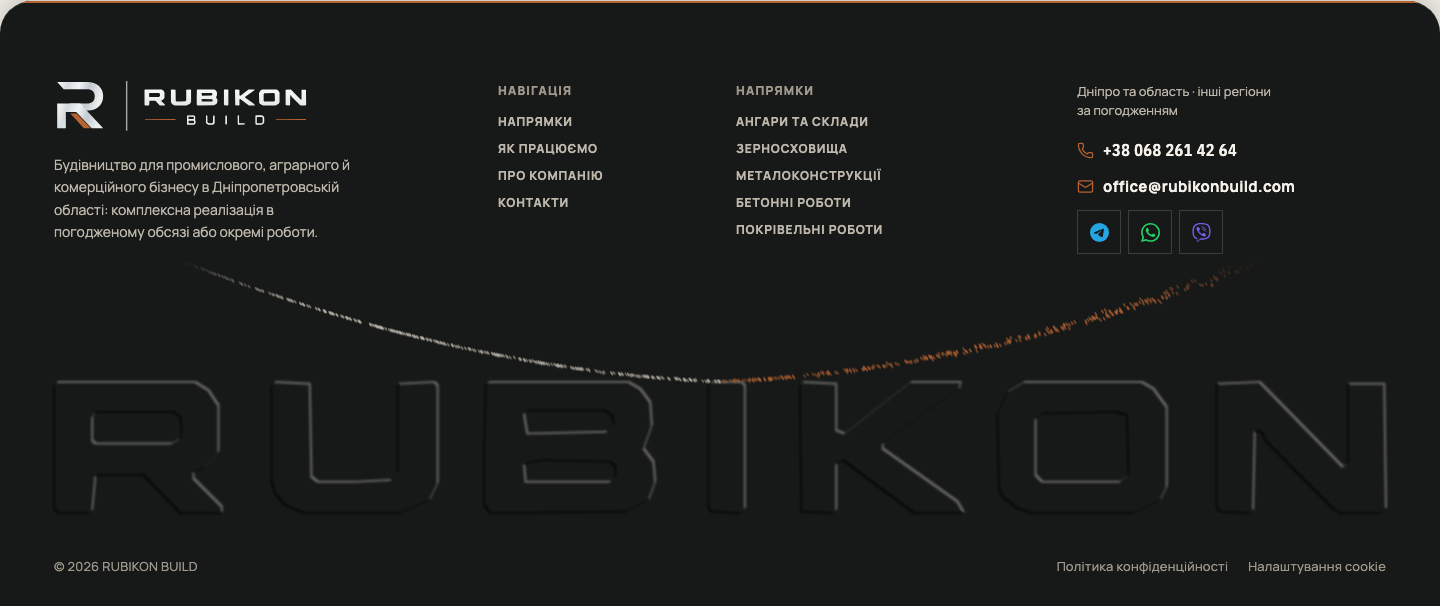
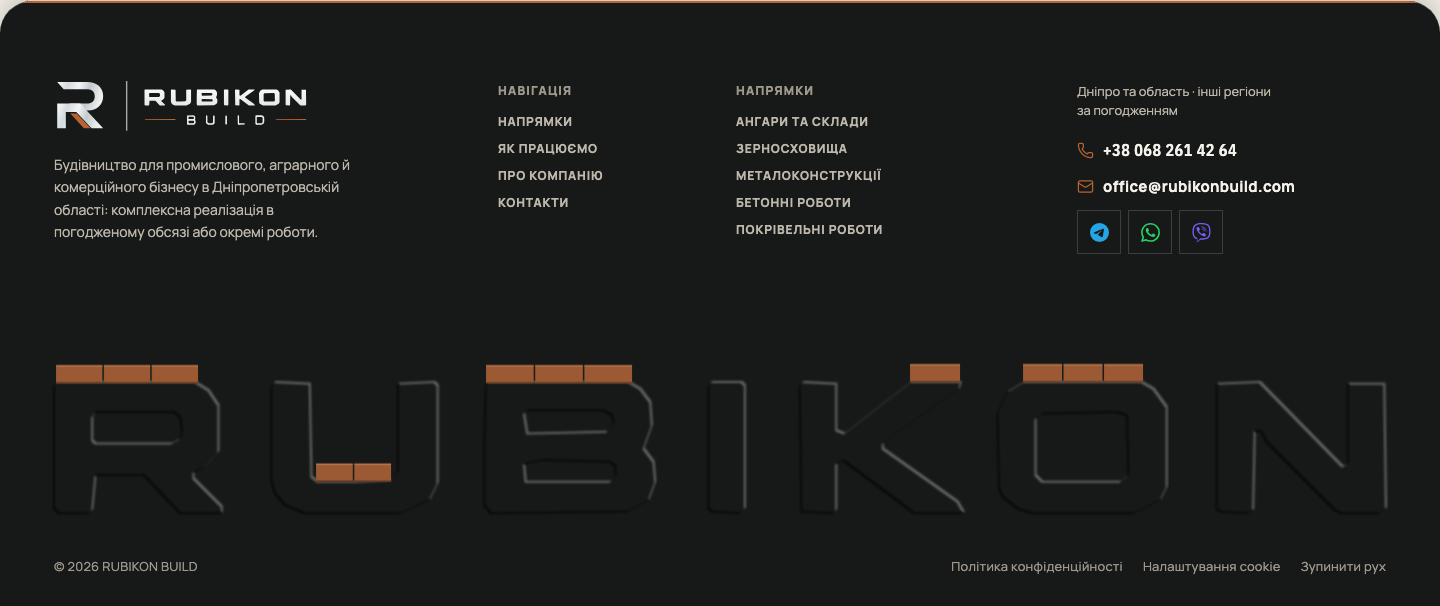
design(footer): «Про компанію» — кладка двох поколінь замість потоків (власник 09.11)
З трьох змакетованих сцен (рівень, кладка, печатка) власник обрав кладку: два ряди
блоків по верху літер — нижній мідний, верхній світлий з перев'язкою, «Два покоління —
одна відповідальність». Та сама сцена в циклі головної. Потоки прибрано.
unit: кладка лягає лише на рівні ділянки верху літер; знімок підвалу /pro-nas.

diff --git a/app/components/footerScenes.ts b/app/components/footerScenes.ts
@@ -3,7 +3,7 @@ import { LETTER_O } from './footerSignatureLetters';
 // The page's own scene on the footer's embossed RUBIKON (owner 08–09.11): on every page that has a live scene of its own,
 // the same subject plays on the word, continuously while the footer is on the screen — rain beating on the letters' tops,
 // a weld run along them, concrete poured into them, grain heaped on them, a beam lowered onto them, a portal frame coming
-// through them, two streams joining in them, the five directions falling on them. «If it gets tiresome, or clients say so,
+// through them, two courses of masonry laid on them, the five directions falling on them. «If it gets tiresome, or clients say so,
 // we change it» (owner 09.11). The home page shows all eight in turn, and the 404 page lowers the word's missing O into
 // place (owner 09.11, after the mock). The scenes draw into two canvases, behind the word (concrete and the frame, so the relief and
 // the light stay on top) and in front of it (FooterSignatureLife.tsx runs them).
@@ -382,19 +382,69 @@ export function frames(g: WordGeometry): FooterScene {
   };
 }
 
-/** About: two streams, copper and light, curve in from both sides and become one in the word — two generations, one company */
-export function streams(g: WordGeometry): FooterScene {
-  const bits = Array.from({ length: 700 }, (_, i) => ({ side: i % 2, t: random(), jitter: gauss(), speed: .25 + random() * .12 }));
+/** Flat stretches of the letters' tops at least `wide` px across: [from, to, top], in canvas px */
+export function flats(g: WordGeometry, wide: number): [number, number, number][] {
+  const spans: [number, number, number][] = [];
+  let start = -1, level = 0;
+  for (let x = 0; x <= g.width; x++) {
+    const top = g.surface(x);
+    if (top < g.height && start >= 0 && Math.abs(top - level) < 1.5) continue;
+    if (start >= 0 && x - start >= wide) spans.push([start, x - 1, level]);
+    start = top < g.height ? x : -1;
+    level = top;
+  }
+  return spans;
+}
+
+type Block = { x: number; y: number; w: number; course: 0 | 1; at: number };
+/** A block's height, its gap, and how far apart in time two blocks are laid, s */
+const COURSE = 11;
+const JOINT = 1.5;
+const LAY = .06;
+
+/** One stretch of a letter's top in two courses: blocks sized to fill it, and the second bonded over the joints of the first */
+function courses(g: WordGeometry, [from, to, top]: [number, number, number]): Block[] {
+  const h = COURSE * g.scale, span = to - from, count = Math.max(1, Math.round(span / (26 * g.scale)));
+  const w = (span - JOINT * (count - 1)) / count, blocks: Block[] = [];
+  for (let i = 0; i < count; i++) blocks.push({ x: from + i * (w + JOINT), y: top - h, w, course: 0, at: 0 });
+  const upper = top - 2 * h - JOINT;
+  // half a block at each end, whole ones over the joints between
+  blocks.push({ x: from, y: upper, w: w / 2, course: 1, at: 0 });
+  for (let i = 1; i < count; i++) blocks.push({ x: from + i * (w + JOINT) - w / 2 - JOINT / 2, y: upper, w, course: 1, at: 0 });
+  blocks.push({ x: from + (count - 1) * (w + JOINT) + w / 2 + JOINT / 2, y: upper, w: w / 2 - JOINT / 2, course: 1, at: 0 });
+  return blocks;
+}
+
+/**
+ * About: two courses laid along the letters' tops — the first in copper, the second in light, bonded over it: «Два покоління —
+ * одна відповідальність» (the page's own line), the older course carrying the younger (owner 09.11, from three mocked ideas).
+ * Laid left to right, the first course before the second, held, faded, and laid again.
+ */
+export function masonry(g: WordGeometry): FooterScene {
+  const blocks = flats(g, 22 * g.scale).flatMap((span) => courses(g, span)).filter((block) => block.w >= 2);
+  const first = blocks.filter((block) => !block.course).sort((p, q) => p.x - q.x);
+  const second = blocks.filter((block) => block.course).sort((p, q) => p.x - q.x);
+  first.forEach((block, i) => { block.at = i * LAY; });
+  second.forEach((block, i) => { block.at = first.length * LAY + .4 + i * LAY; });
+  const laid = Math.max(0, ...blocks.map((block) => block.at)) + .5, cycle = laid + 3.5;
+  const h = COURSE * g.scale;
   return {
-    front(c, dt) {
-      const end = [g.width * .5, g.surface(g.width * .5) - 2];
-      const ways = [[[g.width * .08, -10], [g.width * .3, g.wordTop * .9]], [[g.width * .92, -10], [g.width * .7, g.wordTop * .9]]];
-      for (const bit of bits) {
-        bit.t = (bit.t + bit.speed * dt) % 1;
-        const [[ax, ay], [bx, by]] = ways[bit.side], t = bit.t;
-        const x = (1 - t) ** 2 * ax + 2 * t * (1 - t) * bx + t * t * end[0], y = (1 - t) ** 2 * ay + 2 * t * (1 - t) * by + t * t * end[1];
-        const spread = 16 - t * 12, sx = x + bit.jitter * spread, sy = y + bit.jitter * spread * .3;
-        stroke(c, [sx, sy, sx + 1.4, sy + 2], 1.6, bit.side ? COPPER : INK, .8 * (1 - t * .4));
+    front(c, _dt, time) {
+      const p = time % cycle, fade = p < laid + 2.5 ? 1 : Math.max(0, 1 - (p - laid - 2.5));
+      for (const block of blocks) {
+        const since = p - block.at;
+        if (since < 0) continue;
+        // each block drops the last few pixels into its place
+        const k = Math.min(1, since / .35), y = block.y - (1 - k * k) * 36, alpha = Math.min(1, k * 2) * fade;
+        c.globalAlpha = alpha;
+        c.fillStyle = block.course ? '#CFC6B4' : '#9C5A34';
+        c.fillRect(block.x, y, block.w, h);
+        c.globalAlpha = .6 * alpha;
+        c.fillStyle = block.course ? '#F5F0E6' : '#C98A5E';
+        c.fillRect(block.x, y, block.w, 1.5);
+        c.globalAlpha = .35 * fade;
+        c.fillStyle = '#000';
+        c.fillRect(block.x, y + h - 1.5, block.w, 1.5);
       }
     },
   };
@@ -426,7 +476,7 @@ export function five(g: WordGeometry): FooterScene {
 /** Home: every direction in turn, TURN seconds each, faded out and in over FADE */
 export const TURN = 8;
 const FADE = .6;
-export const IN_TURN = [rain, weld, grain, pour, beam, frames, streams, five] as const;
+export const IN_TURN = [rain, weld, grain, pour, beam, frames, masonry, five] as const;
 
 export function inTurn(g: WordGeometry): FooterScene {
   let index = -1, inner: FooterScene = {}, start = 0;
@@ -544,7 +594,7 @@ export const FOOTER_SCENES: Record<string, (g: WordGeometry) => FooterScene> = {
   '.grain-page': grain,
   '.process-page': beam,
   '.angary-page': frames,
-  '.about-page': streams,
+  '.about-page': masonry,
   '.directions-page': five,
   '[data-home]': inTurn,
   '.not-found-page': missing,

diff --git a/tests/unit/footer-scenes.test.ts b/tests/unit/footer-scenes.test.ts
@@ -1,7 +1,7 @@
 import { readFileSync } from 'node:fs';
 import { describe, expect, it } from 'vitest';
 import { FOOTER_SCENE_PAGES } from '../../app/components/FooterSignatureLife';
-import { FOOTER_SCENES, IN_TURN, MISSING_FOR, TURN, five, grain, inTurn, missing, rain, weld, type FooterScene, type WordGeometry } from '../../app/components/footerScenes';
+import { FOOTER_SCENES, IN_TURN, MISSING_FOR, TURN, five, flats, grain, inTurn, masonry, missing, rain, weld, type FooterScene, type WordGeometry } from '../../app/components/footerScenes';
 
 const SCENE_BY_NAME = { rain, weld, grain, five };
 
@@ -104,6 +104,20 @@ describe('footer scenes: continuous', () => {
       expect(at120 / at60).toBeLessThan(1.33);
     });
   }
+
+  it('about: the masonry is laid on the flat stretches of the letters\' tops, and only there', () => {
+    // the stub word: flat tops at 120 px, broken by a 20 px gap every 250 px
+    const spans = flats(geometry, 22 * geometry.scale);
+    expect(spans.length).toBeGreaterThanOrEqual(4);
+    for (const [from, to, top] of spans) {
+      expect(top).toBe(120);
+      expect(to - from).toBeGreaterThanOrEqual(22 * geometry.scale);
+    }
+    const { perSecond } = run(masonry(geometry), 20);
+    expect(Math.max(...perSecond)).toBeGreaterThan(0);
+    expect(FOOTER_SCENES['.about-page']).toBe(masonry);
+    expect(IN_TURN).toContain(masonry);
+  });
 
   it('the home page plays every direction in turn, fading between them', () => {
     const scene = inTurn(geometry), { context } = stubContext();

diff --git a/docs/handoffs/2026-11-08-footer-scenes.md b/docs/handoffs/2026-11-08-footer-scenes.md
@@ -29,7 +29,8 @@
   - `grain-page` — три струмені зерна насипають гірки на літери, повні гірки повільно тануть;
   - `process-page` — двотаврову балку опускають на стропах на слово й піднімають;
   - `angary-page` — портальна рама виходить з глибини позаду слова;
-  - `about-page` — два потоки, мідний і світлий, сходяться в один у слові;
+  - `about-page` — кладка: два ряди блоків по верху літер, нижній мідний, верхній світлий з перев'язкою («Два покоління —
+    одна відповідальність»); власник 09.11 обрав її з трьох змакетованих (рівень, кладка, печатка) замість двох потоків;
   - `directions-page` — п'ять напрямів падають на п'ять літер.
 - **Головна (`main[data-home]`):** усі вісім сцен по черзі, по 8 с, з переходом 0,6 с (прозорість canvas).
 - **404 (`main.not-found-page`):** у тисненому слові немає «O» (рельєф, лампа й кліп смуги світла тепер у двох частинах:
